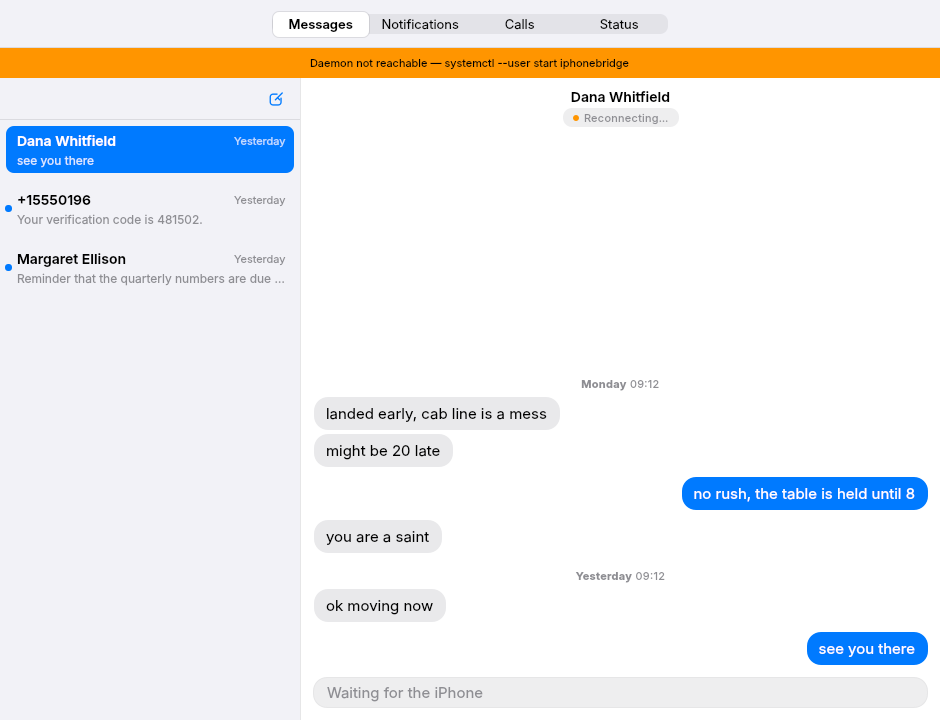
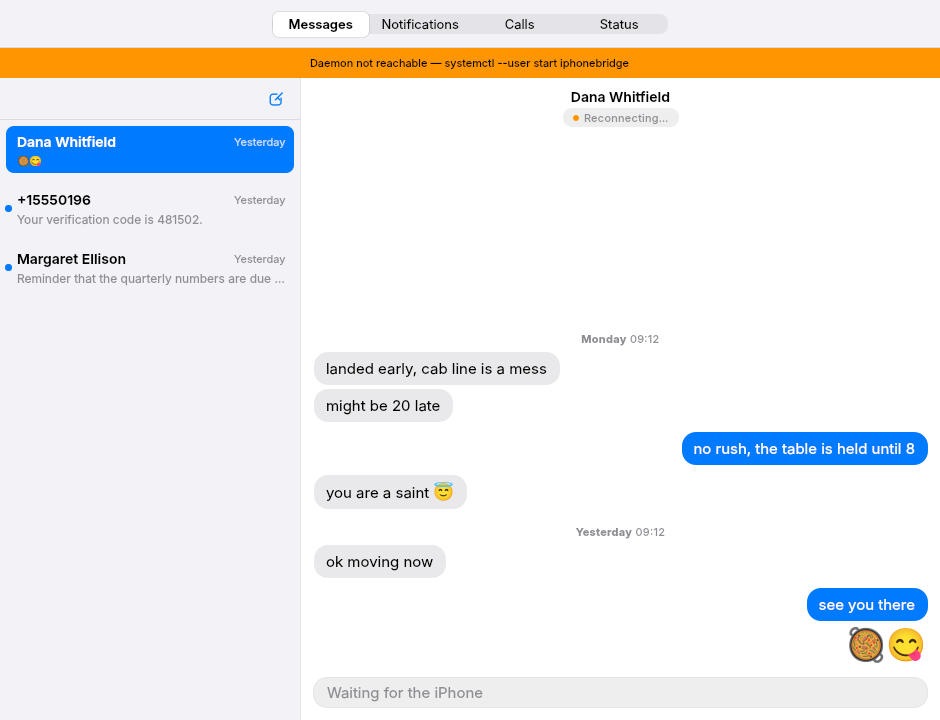
Update screenshots

diff --git a/screenshots/seed.py b/screenshots/seed.py
@@ -58,11 +58,13 @@ def events() -> list[dict]:
         _sms("sms_sent", "Dana Whitfield", "+15550138",
              "no rush, the table is held until 8", -1435),
         _sms("sms_received", "Dana Whitfield", "+15550138",
-             "you are a saint", -1430),
+             "you are a saint 😇", -1430),
         _sms("sms_received", "Dana Whitfield", "+15550138",
              "ok moving now", 0),
         _sms("sms_sent", "Dana Whitfield", "+15550138",
              "see you there", 3),
+        _sms("sms_sent", "Dana Whitfield", "+15550138",
+                     "🥘😋", 4),
         # Left unread, so the conversation list shows both states: this
         # one and the number below carry the accent dot.
         _sms("sms_received", "Margaret Ellison", "+15550172",
